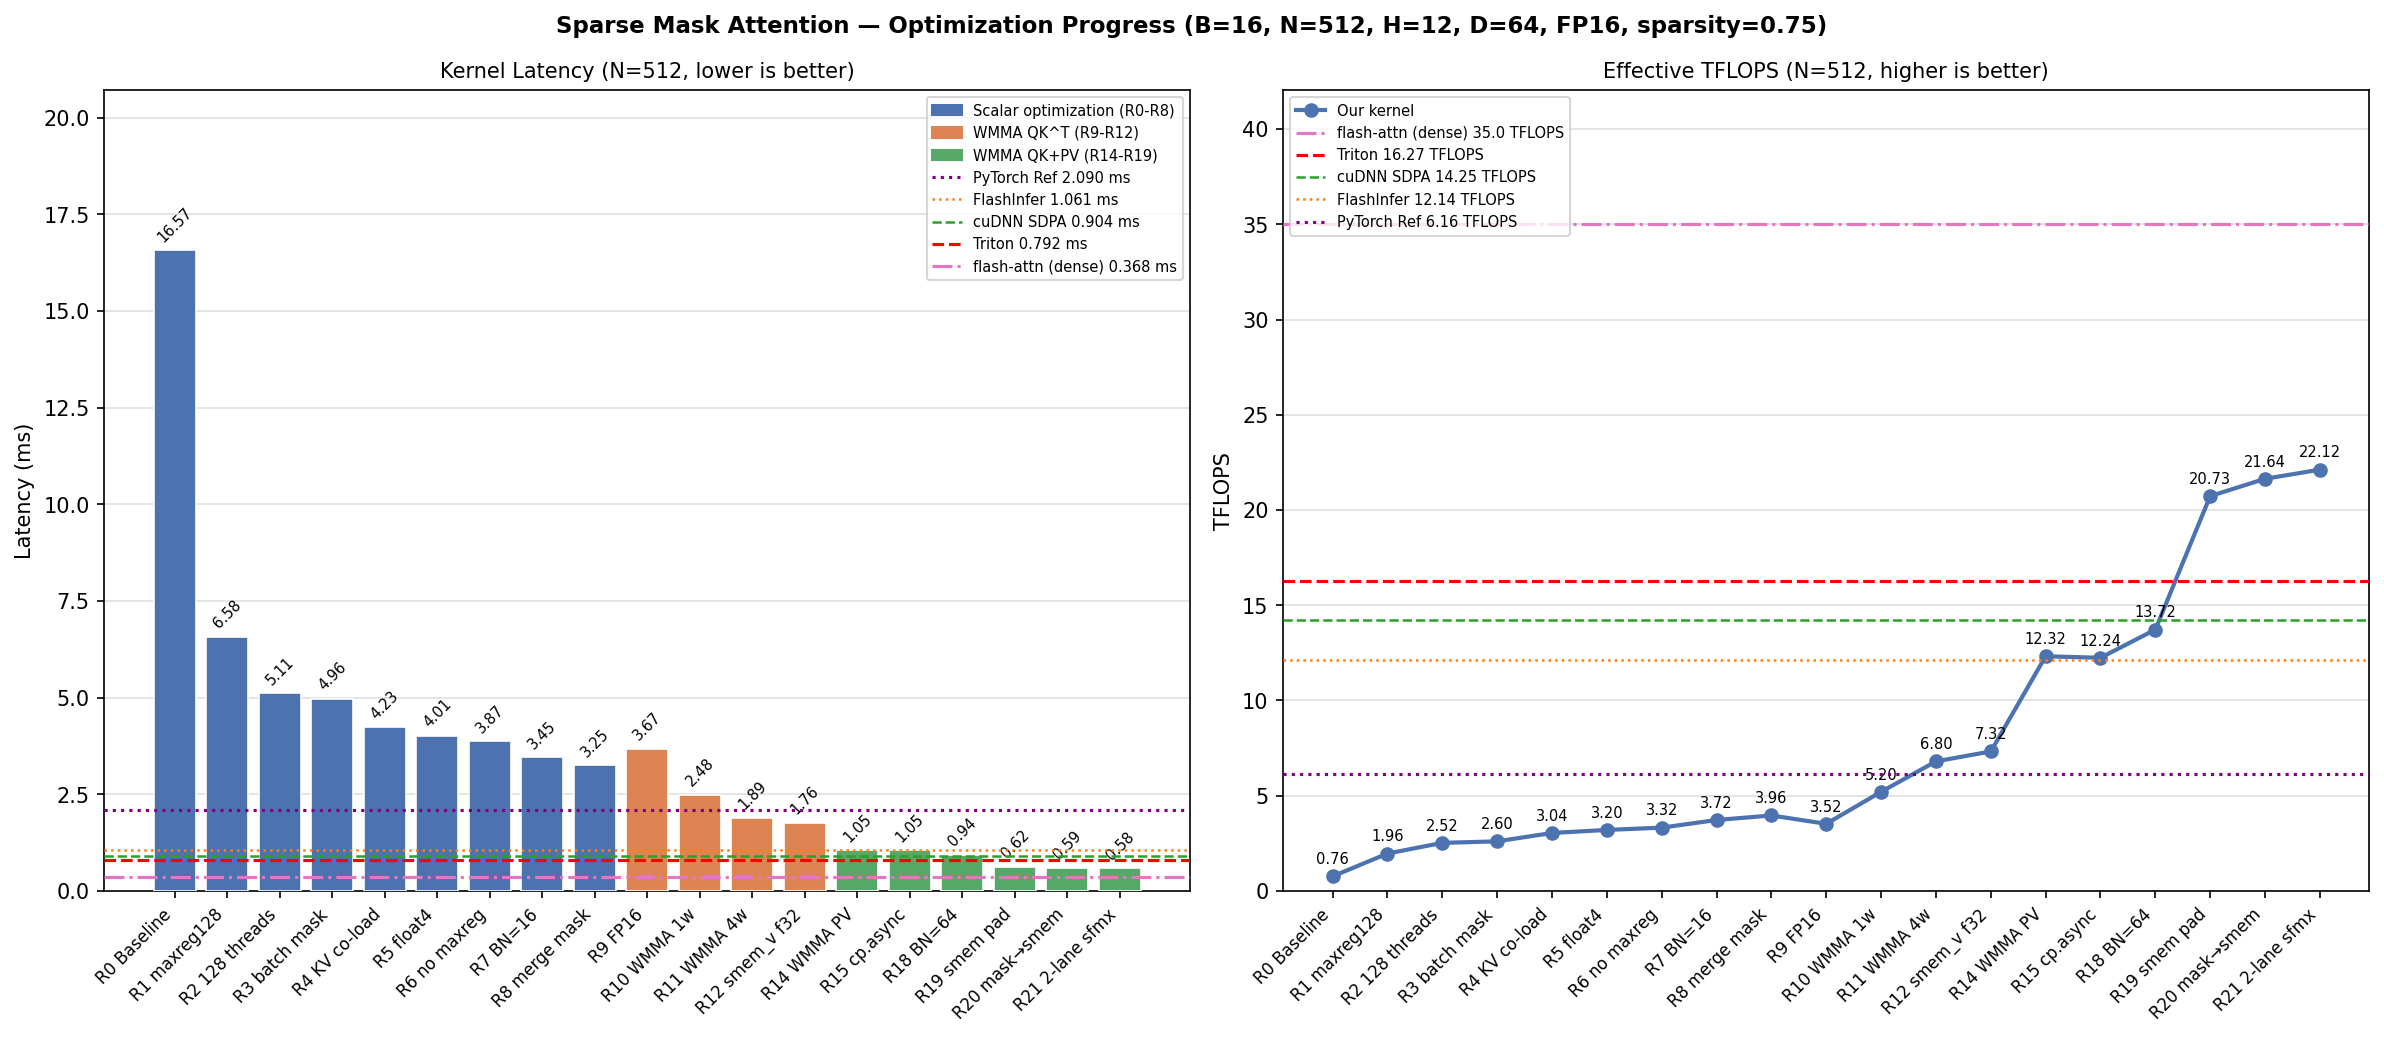
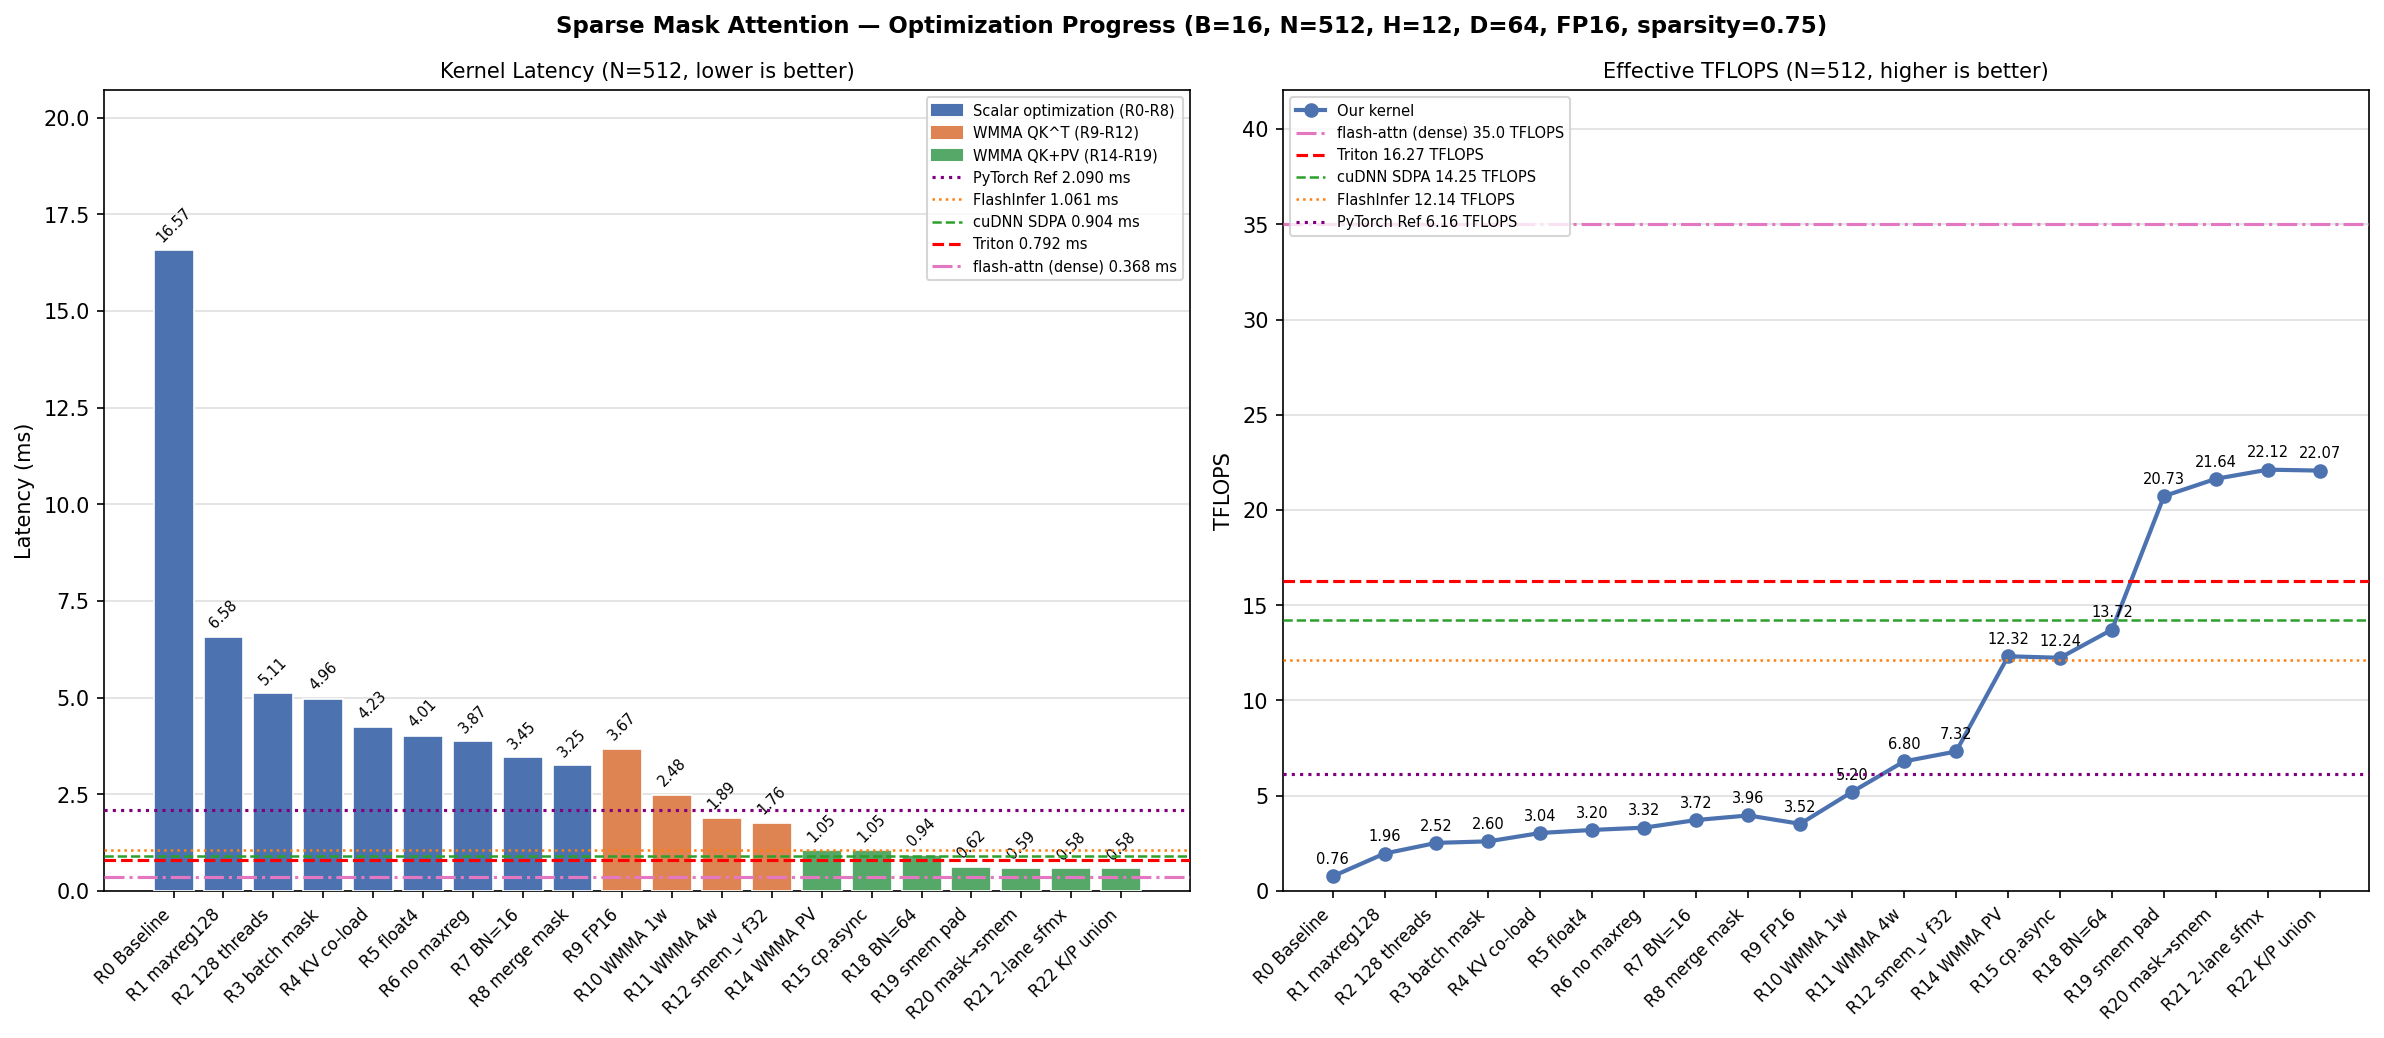
Round 22: union smem_k/smem_p, 0.584ms, N=1024 MFU 89.9%
Share smem_k and smem_p via reinterpret_cast (both 9216B, non-overlapping
lifetimes). Saves 9KB smem (37→28KB), enabling 3 blocks/SM vs 2.
N=512 flat (0.584ms), but N=1024 improves 4.4% (1.923 vs 2.008ms)
reaching 89.9% MFU.

diff --git a/notes/gen_chart.py b/notes/gen_chart.py
@@ -26,6 +26,7 @@ rounds = [
     (19, "R19 smem pad",     0.622, 20.73),
     (20, "R20 mask→smem",    0.595, 21.64),
     (21, "R21 2-lane sfmx",  0.583, 22.12),
+    (22, "R22 K/P union",    0.584, 22.07),
 ]
 
 r_ids   = [r[0]  for r in rounds]

diff --git a/notes/perf_log.md b/notes/perf_log.md
@@ -312,16 +312,17 @@ GPU: NVIDIA GeForce RTX 3080 (sm_86)
 | 19 | smem Q/K/V pad+8 | 0.622 ms | 20.73 | 3.67x | 1.38x ★ |
 | 20 | mask预读smem | 0.595 ms | 21.64 | 3.84x | 1.38x |
 | 21 | 2-lane并行softmax | 0.583 ms | 22.12 | 3.92x | 1.41x |
+| 22 | smem_k/smem_p union | 0.584 ms | 22.07 | 3.92x | 1.40x |
 
 Baselines (B=16, N=512, H=12, D=64, FP16, sparsity=0.75):
 - **PyTorch Ref (FP16 TC):** 2.090 ms, 6.16 TFLOPS
-- **Triton (FP16 TC):** 0.792 ms, 16.27 TFLOPS ← 已超越
-- **cuDNN SDPA:** 0.904 ms, 14.25 TFLOPS ← 已超越
-- **FlashInfer:** 1.061 ms, 12.14 TFLOPS ← 已超越
-- **flash-attn (dense, 无mask):** 0.368 ms, 35.04 TFLOPS ← 当前目标
+- **Triton (FP16 TC):** 0.746 ms, 17.28 TFLOPS ← 已超越
+- **cuDNN SDPA:** 0.890 ms, 14.48 TFLOPS ← 已超越
+- **FlashInfer:** 1.047 ms, 12.30 TFLOPS ← 已超越
+- **flash-attn (dense, 无mask):** 0.402 ms, 32.03 TFLOPS ← 当前目标
 
-总提速: 16.571ms → 0.583ms = **28.4x** (Baseline → Round 21)
-当前状态: 已超越 Triton 1.41x，距 flash-attn (dense) 还差 1.58x
+总提速: 16.571ms → 0.584ms = **28.4x** (Baseline → Round 22)
+当前状态: 已超越 Triton 1.40x，N=1024 MFU 89.9%，距 flash-attn (dense) 还差 1.45x
 
 ### Round 13 — WMMA PV 累加（失败，已回滚）
 
@@ -543,3 +544,26 @@ softmax 的 expf 展开产生大量 FMA 指令，是 FMA pipe 饱和的主因。
 - 加速比 vs Ref: 3.92x；vs Triton: 1.41x
 
 关键指标 (N=512): **0.583 ms, 22.12 TFLOPS** (vs Round 20: 0.595ms, 提速 1.02x)
+
+### Round 22 — smem_k 和 smem_p 共享内存 (union)
+
+改动: csrc/sparse_attention.cu
+- smem_k[BN][HD+PP] 和 smem_p[NWARPS][BM][BN+PP] 共享同一块 smem（都是 9216B）
+- 用 `reinterpret_cast` 创建两个指针 alias 指向同一块 `smem_kp[4608]`
+- smem_k 只在 QK^T WMMA 中使用，smem_p 只在 softmax+PV WMMA 中使用，生命周期不重叠
+- 总 smem 从 ~37KB 降到 ~28KB
+
+原因: 减少 smem 用量提高 occupancy。28KB/block → 每 SM 可放 3 blocks（vs 2 before）。
+效果: N=512 持平（0.584 vs 0.583ms），但 N=1024 提速 4.4%（1.923 vs 2.008ms）。
+大 N 时 block 数更多，occupancy 提升更明显。N=1024 MFU 达到 89.9%。
+
+序列长度缩放 (B=16, H=12, D=64, sparsity=0.75):
+| N | latency(ms) | TFLOPS | MFU%(vs 29.8T) |
+|---|---|---|---|
+| 64 | 0.033 | 6.03 | 20.3% |
+| 128 | 0.064 | 12.57 | 42.2% |
+| 256 | 0.177 | 18.18 | 61.0% |
+| 512 | 0.584 | 22.07 | 74.1% |
+| 1024 | 1.923 | 26.80 | 89.9% |
+
+关键指标 (N=512): **0.584 ms, 22.07 TFLOPS** (vs Round 21: 0.583ms, 持平；N=1024 提速 4.4%)
